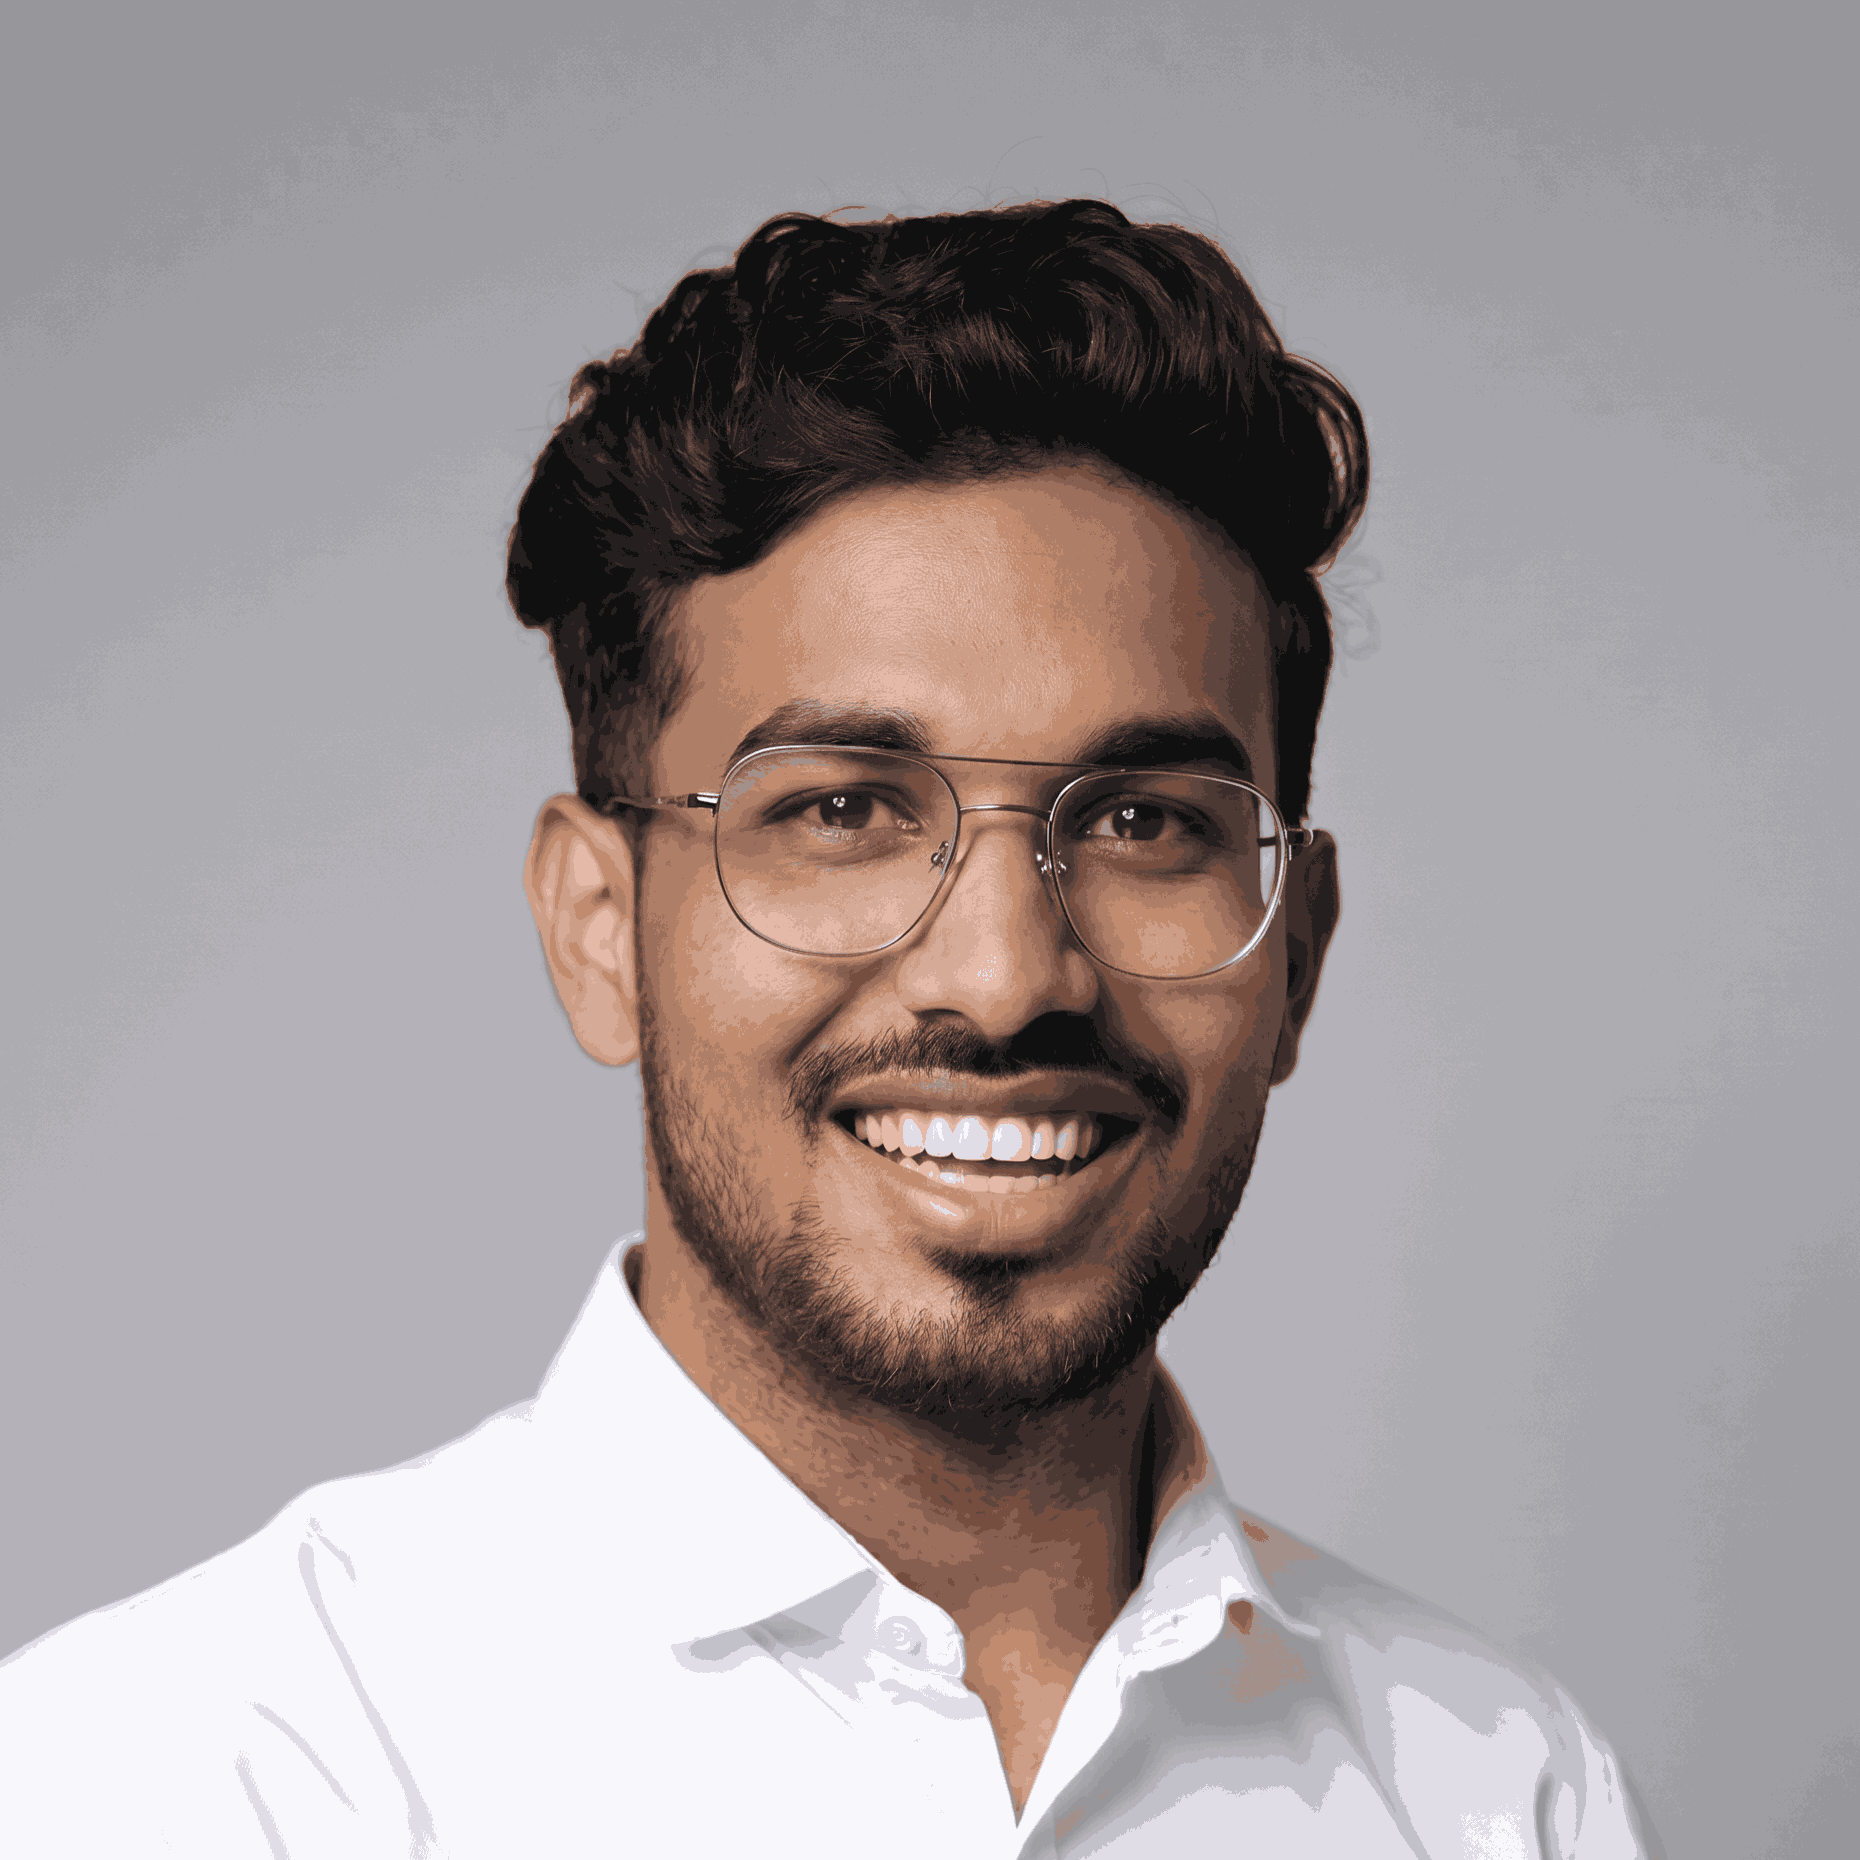
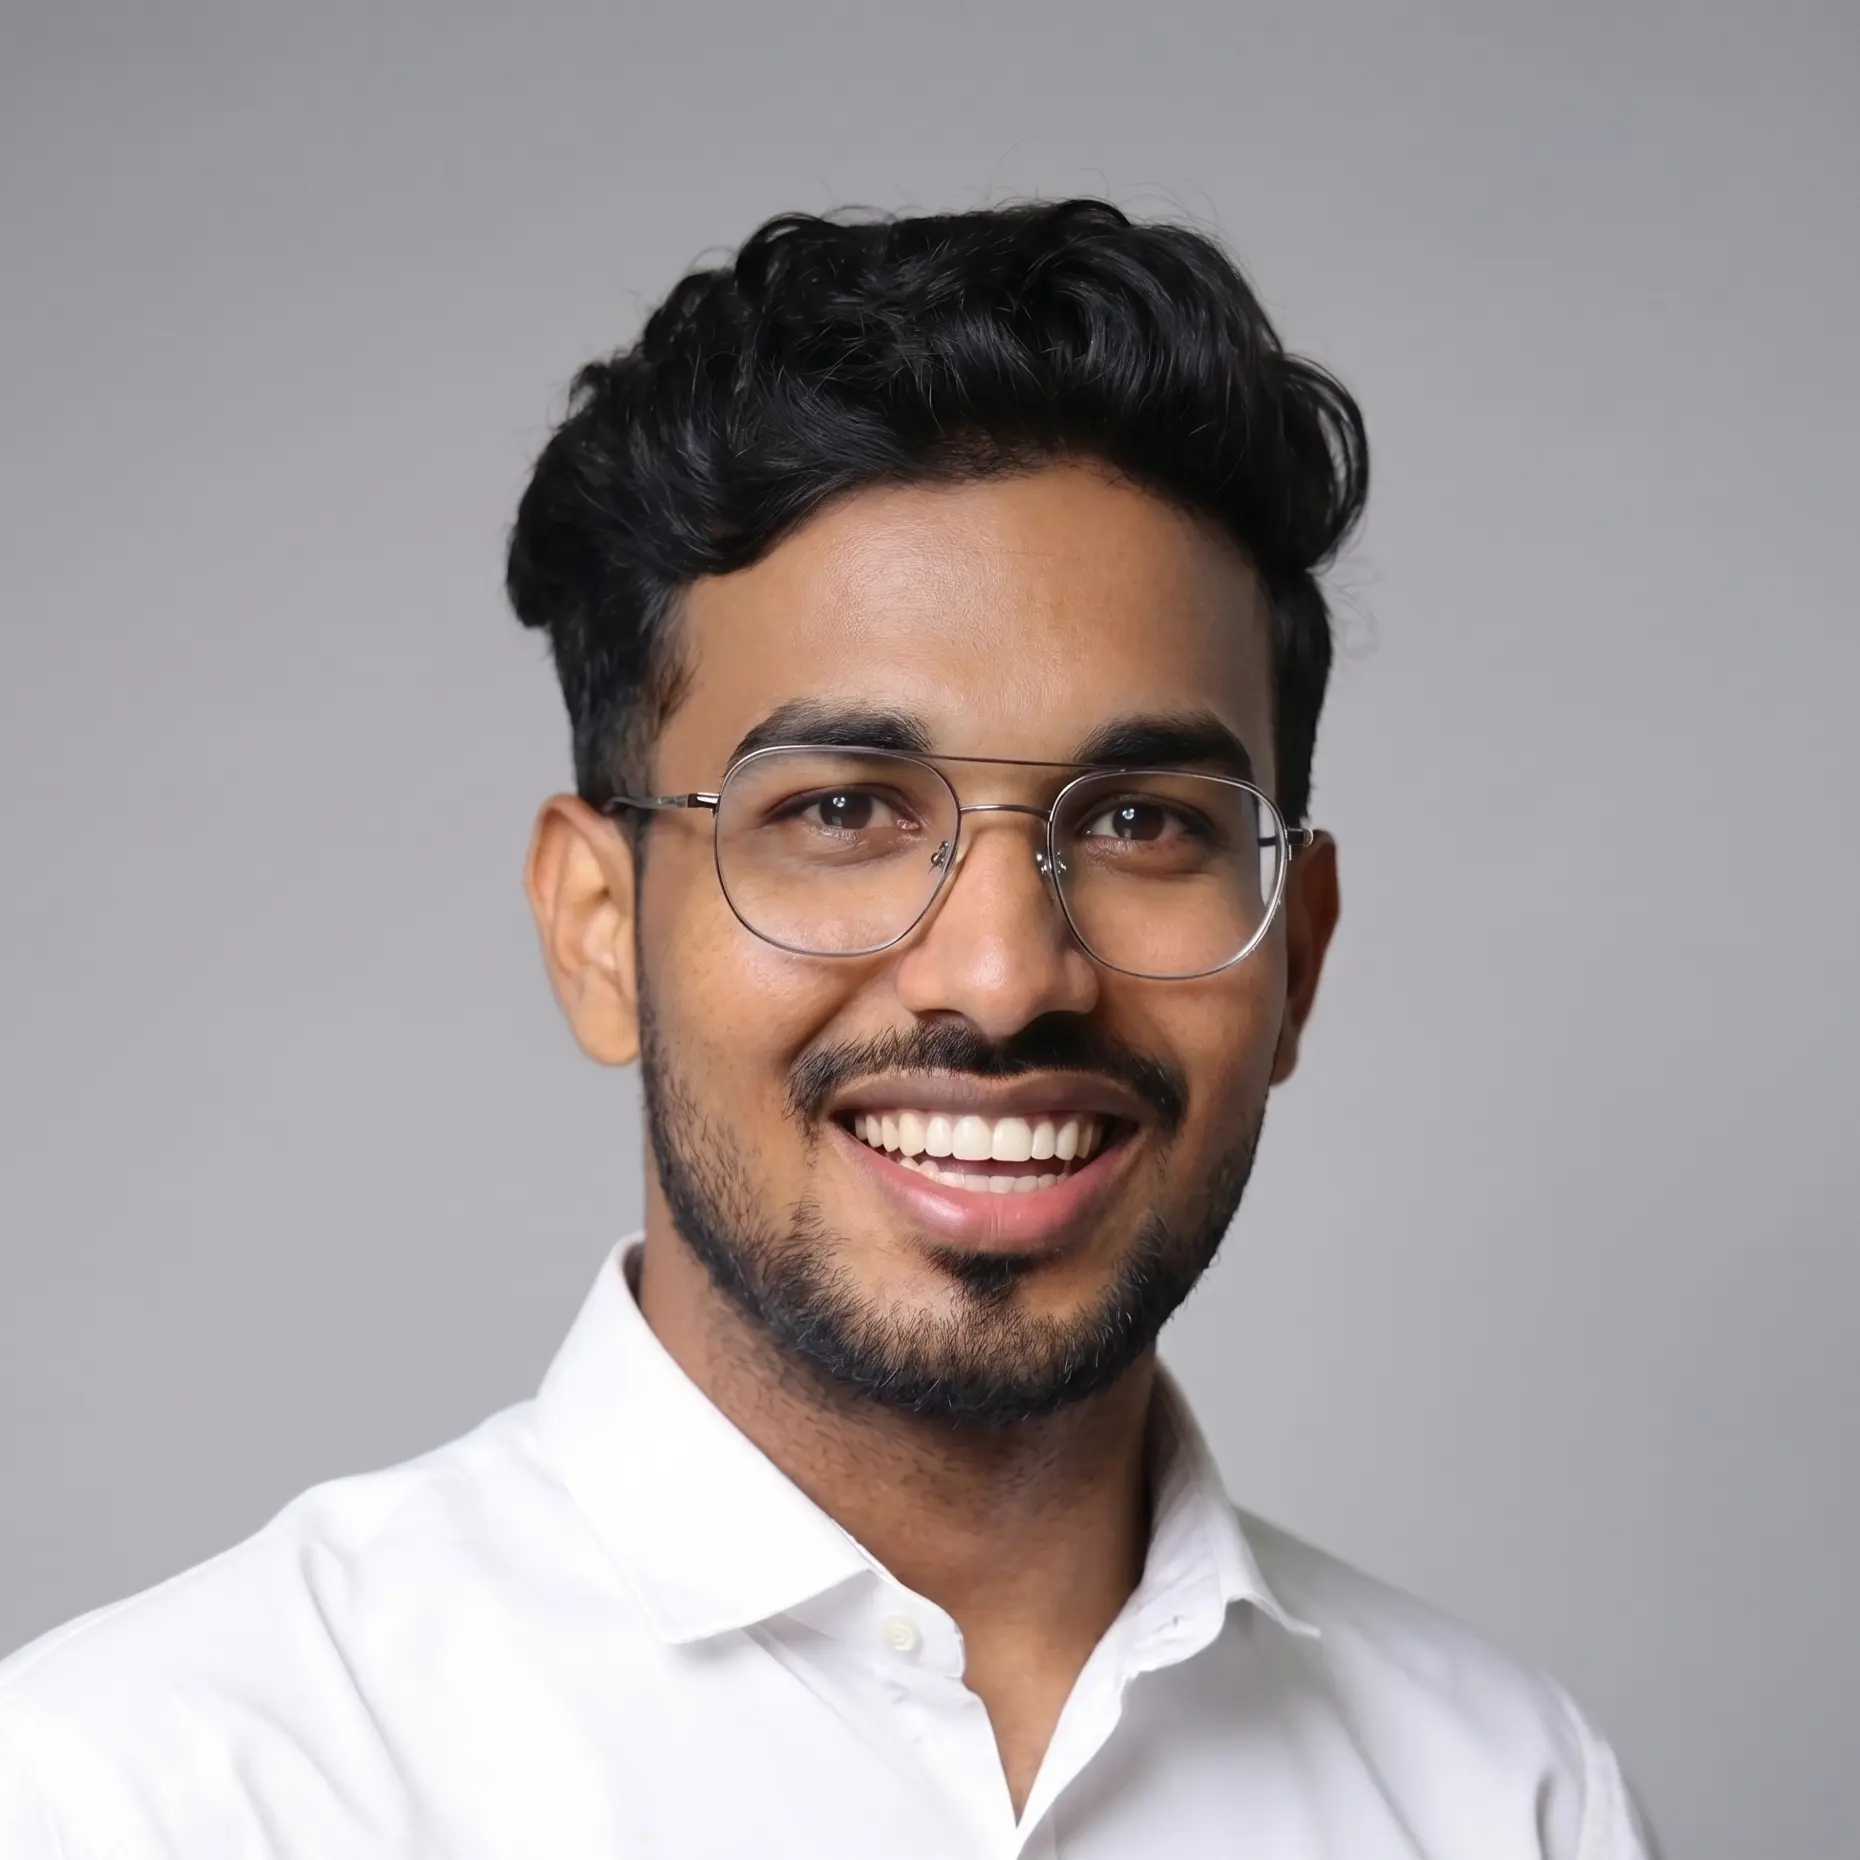
fix: autocomplete attrs, fonts via link tag, remove CSS @user, .vscode settings for Tailwind

diff --git a/src/app/globals.css b/src/app/globals.css
@@ -108,12 +108,13 @@ nav li {
 .profile-image-container {
   position: relative;
   overflow: hidden;
+  box-shadow: 0 4px 20px rgba(0, 0, 0, 0.5);
   transition: border-color 0.5s ease, box-shadow 0.5s ease;
 }
 
 .profile-container:hover .profile-image-container {
-  border-color: rgba(211, 187, 255, 0.3);
-  box-shadow: 0 4px 20px rgba(76, 29, 149, 0.15);
+  border-color: rgba(0, 242, 255, 0.5);
+  box-shadow: 0 8px 30px rgba(76, 29, 149, 0.4), 0 0 15px rgba(0, 242, 255, 0.2);
 }
 
 .profile-image-el {

diff --git a/src/components/sections/AboutSection.tsx b/src/components/sections/AboutSection.tsx
@@ -24,7 +24,7 @@ export default function AboutSection() {
             <div className="profile-aura" aria-hidden="true" />
 
             {/* Profile Image container */}
-            <div className="profile-image-container relative w-[260px] h-[260px] sm:w-80 sm:h-80 md:w-96 md:h-96 rounded-2xl overflow-hidden border border-white/10 group-hover:scale-105 transition-all duration-500 ease-out z-10">
+            <div className="profile-image-container relative w-[260px] h-[260px] sm:w-80 sm:h-80 md:w-96 md:h-96 rounded-2xl overflow-hidden border border-nebula-purple/30 group-hover:scale-105 transition-all duration-500 ease-out z-10">
               <Image
                 src={PROFILE_IMAGE_URL}
                 alt="Deep Ilasariya - AEM Expert & Astronomer"